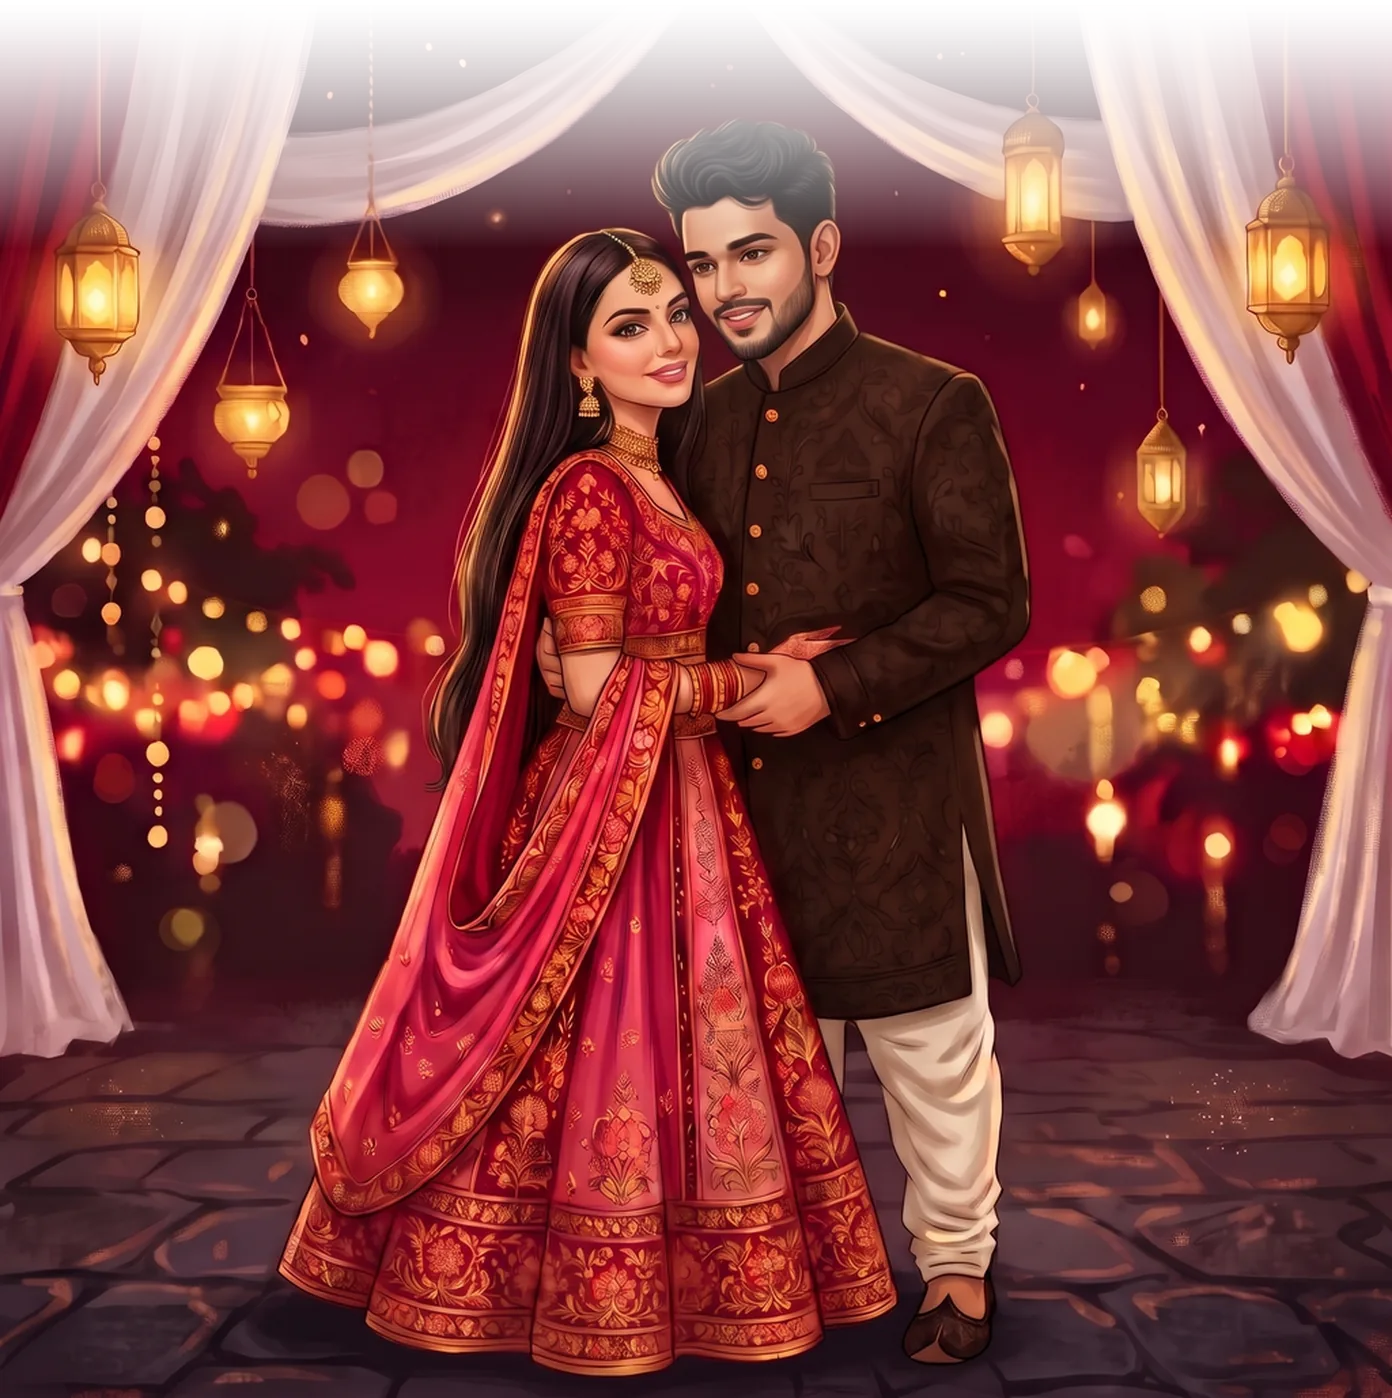
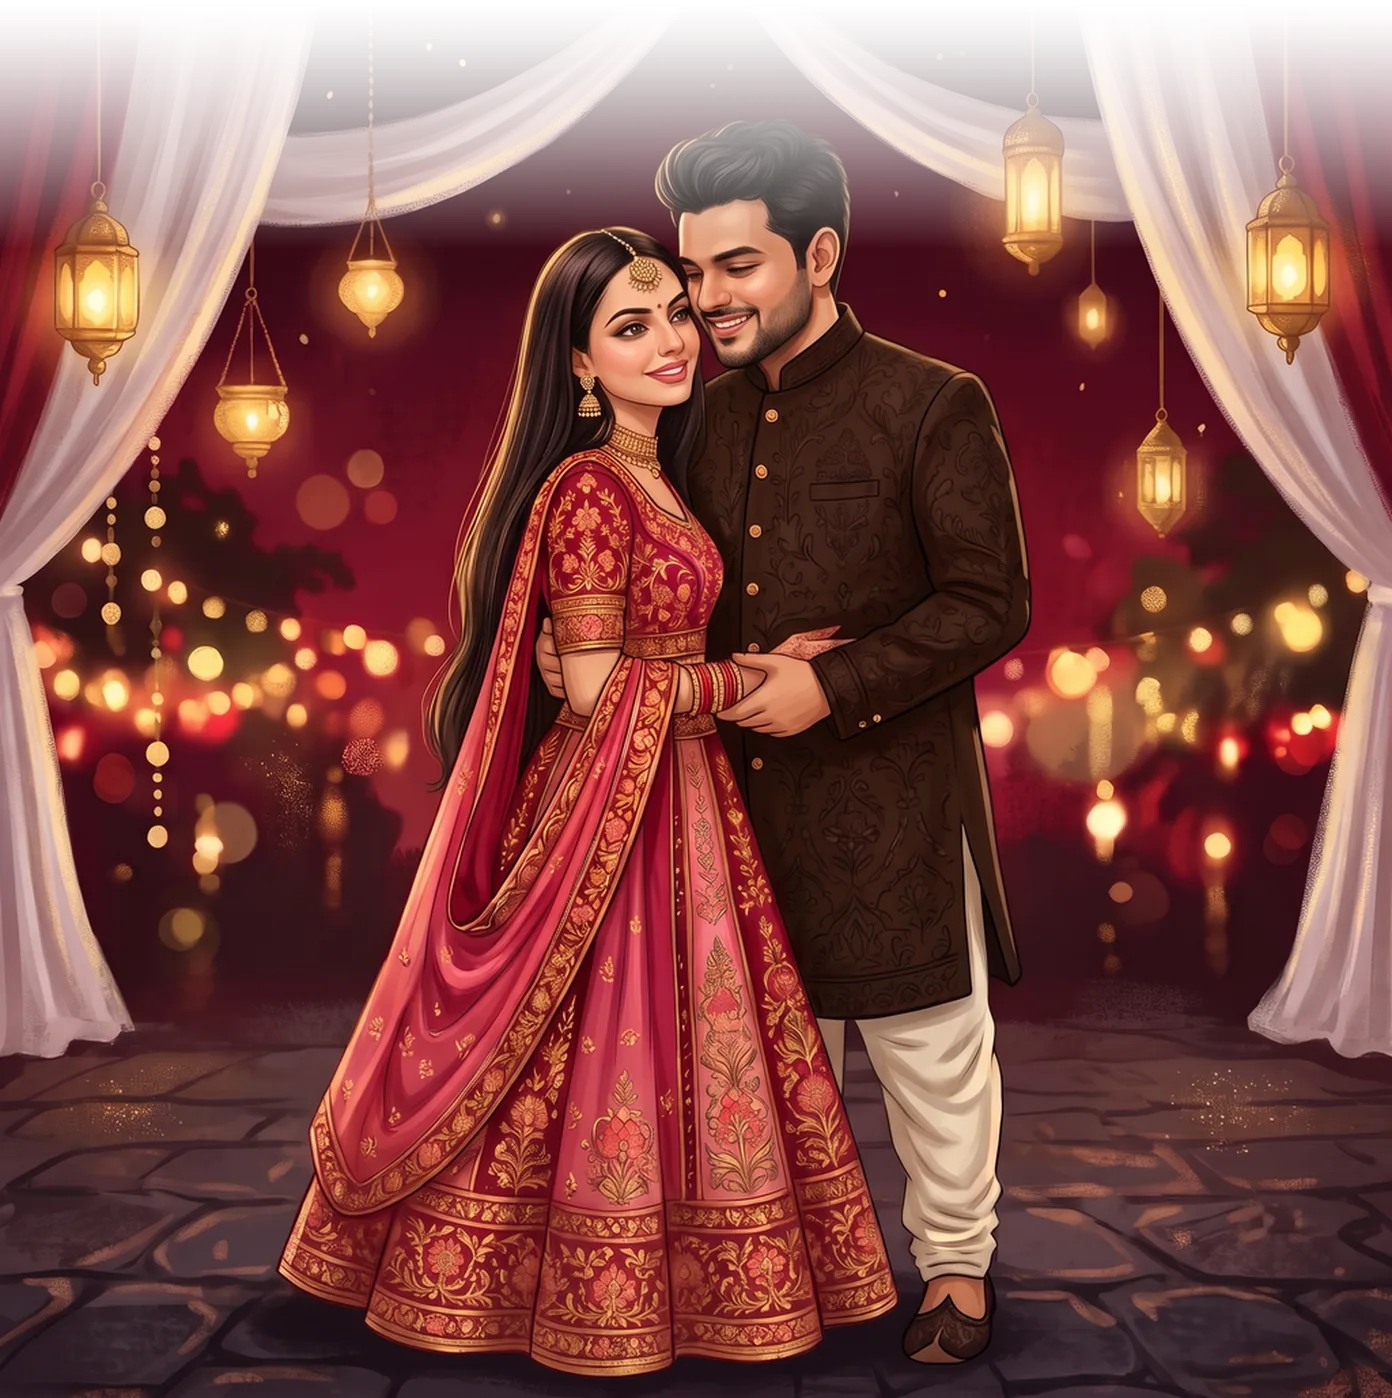
Slim-pass pictures in all four scenes
Sufi Night and Baraat go back to the slim, flawless-face versions from before the
likeness edit, matching Reception and Carnival. Star marks removed.

diff --git a/index.html b/index.html
@@ -192,7 +192,7 @@
     <p class="when" data-reveal aria-label="12 December, Saturday, 8:00 pm onwards"><span class="when__seal" aria-hidden="true"><b>12</b><small>Dec</small></span><span class="when__info" aria-hidden="true"><em>Saturday</em><strong>8:00 pm</strong><small>onwards</small></span></p>
     <a class="btn" href="calendar/sufi-night.ics" data-reveal>Add to calendar</a>
   </div>
-  <img class="page__bottom" data-strip="bottom" src="assets/art/sufi-bottom.webp?v=7" width="928" height="932" alt="Illustration of the couple in a red lehenga and dark sherwani" loading="lazy" decoding="async">
+  <img class="page__bottom" data-strip="bottom" src="assets/art/sufi-bottom.webp?v=8" width="928" height="932" alt="Illustration of the couple in a red lehenga and dark sherwani" loading="lazy" decoding="async">
 </section>
 
 <!-- The sky keeps time: a new morning -->
@@ -209,7 +209,7 @@
     <p class="when" data-reveal aria-label="13 December, Sunday, 12 noon onwards"><span class="when__seal" aria-hidden="true"><b>13</b><small>Dec</small></span><span class="when__info" aria-hidden="true"><em>Sunday</em><strong>12:00 noon</strong><small>onwards</small></span></p>
     <a class="btn" href="calendar/wedding.ics" data-reveal>Add to calendar</a>
   </div>
-  <img class="page__bottom" data-strip="bottom" src="assets/art/baraat-bottom.webp?v=7" width="928" height="666" alt="Illustration of the baraat dancing around a flower-decked vintage car" loading="lazy" decoding="async">
+  <img class="page__bottom" data-strip="bottom" src="assets/art/baraat-bottom.webp?v=8" width="928" height="666" alt="Illustration of the baraat dancing around a flower-decked vintage car" loading="lazy" decoding="async">
 </section>
 
 <!-- The sky keeps time: night falls again -->
